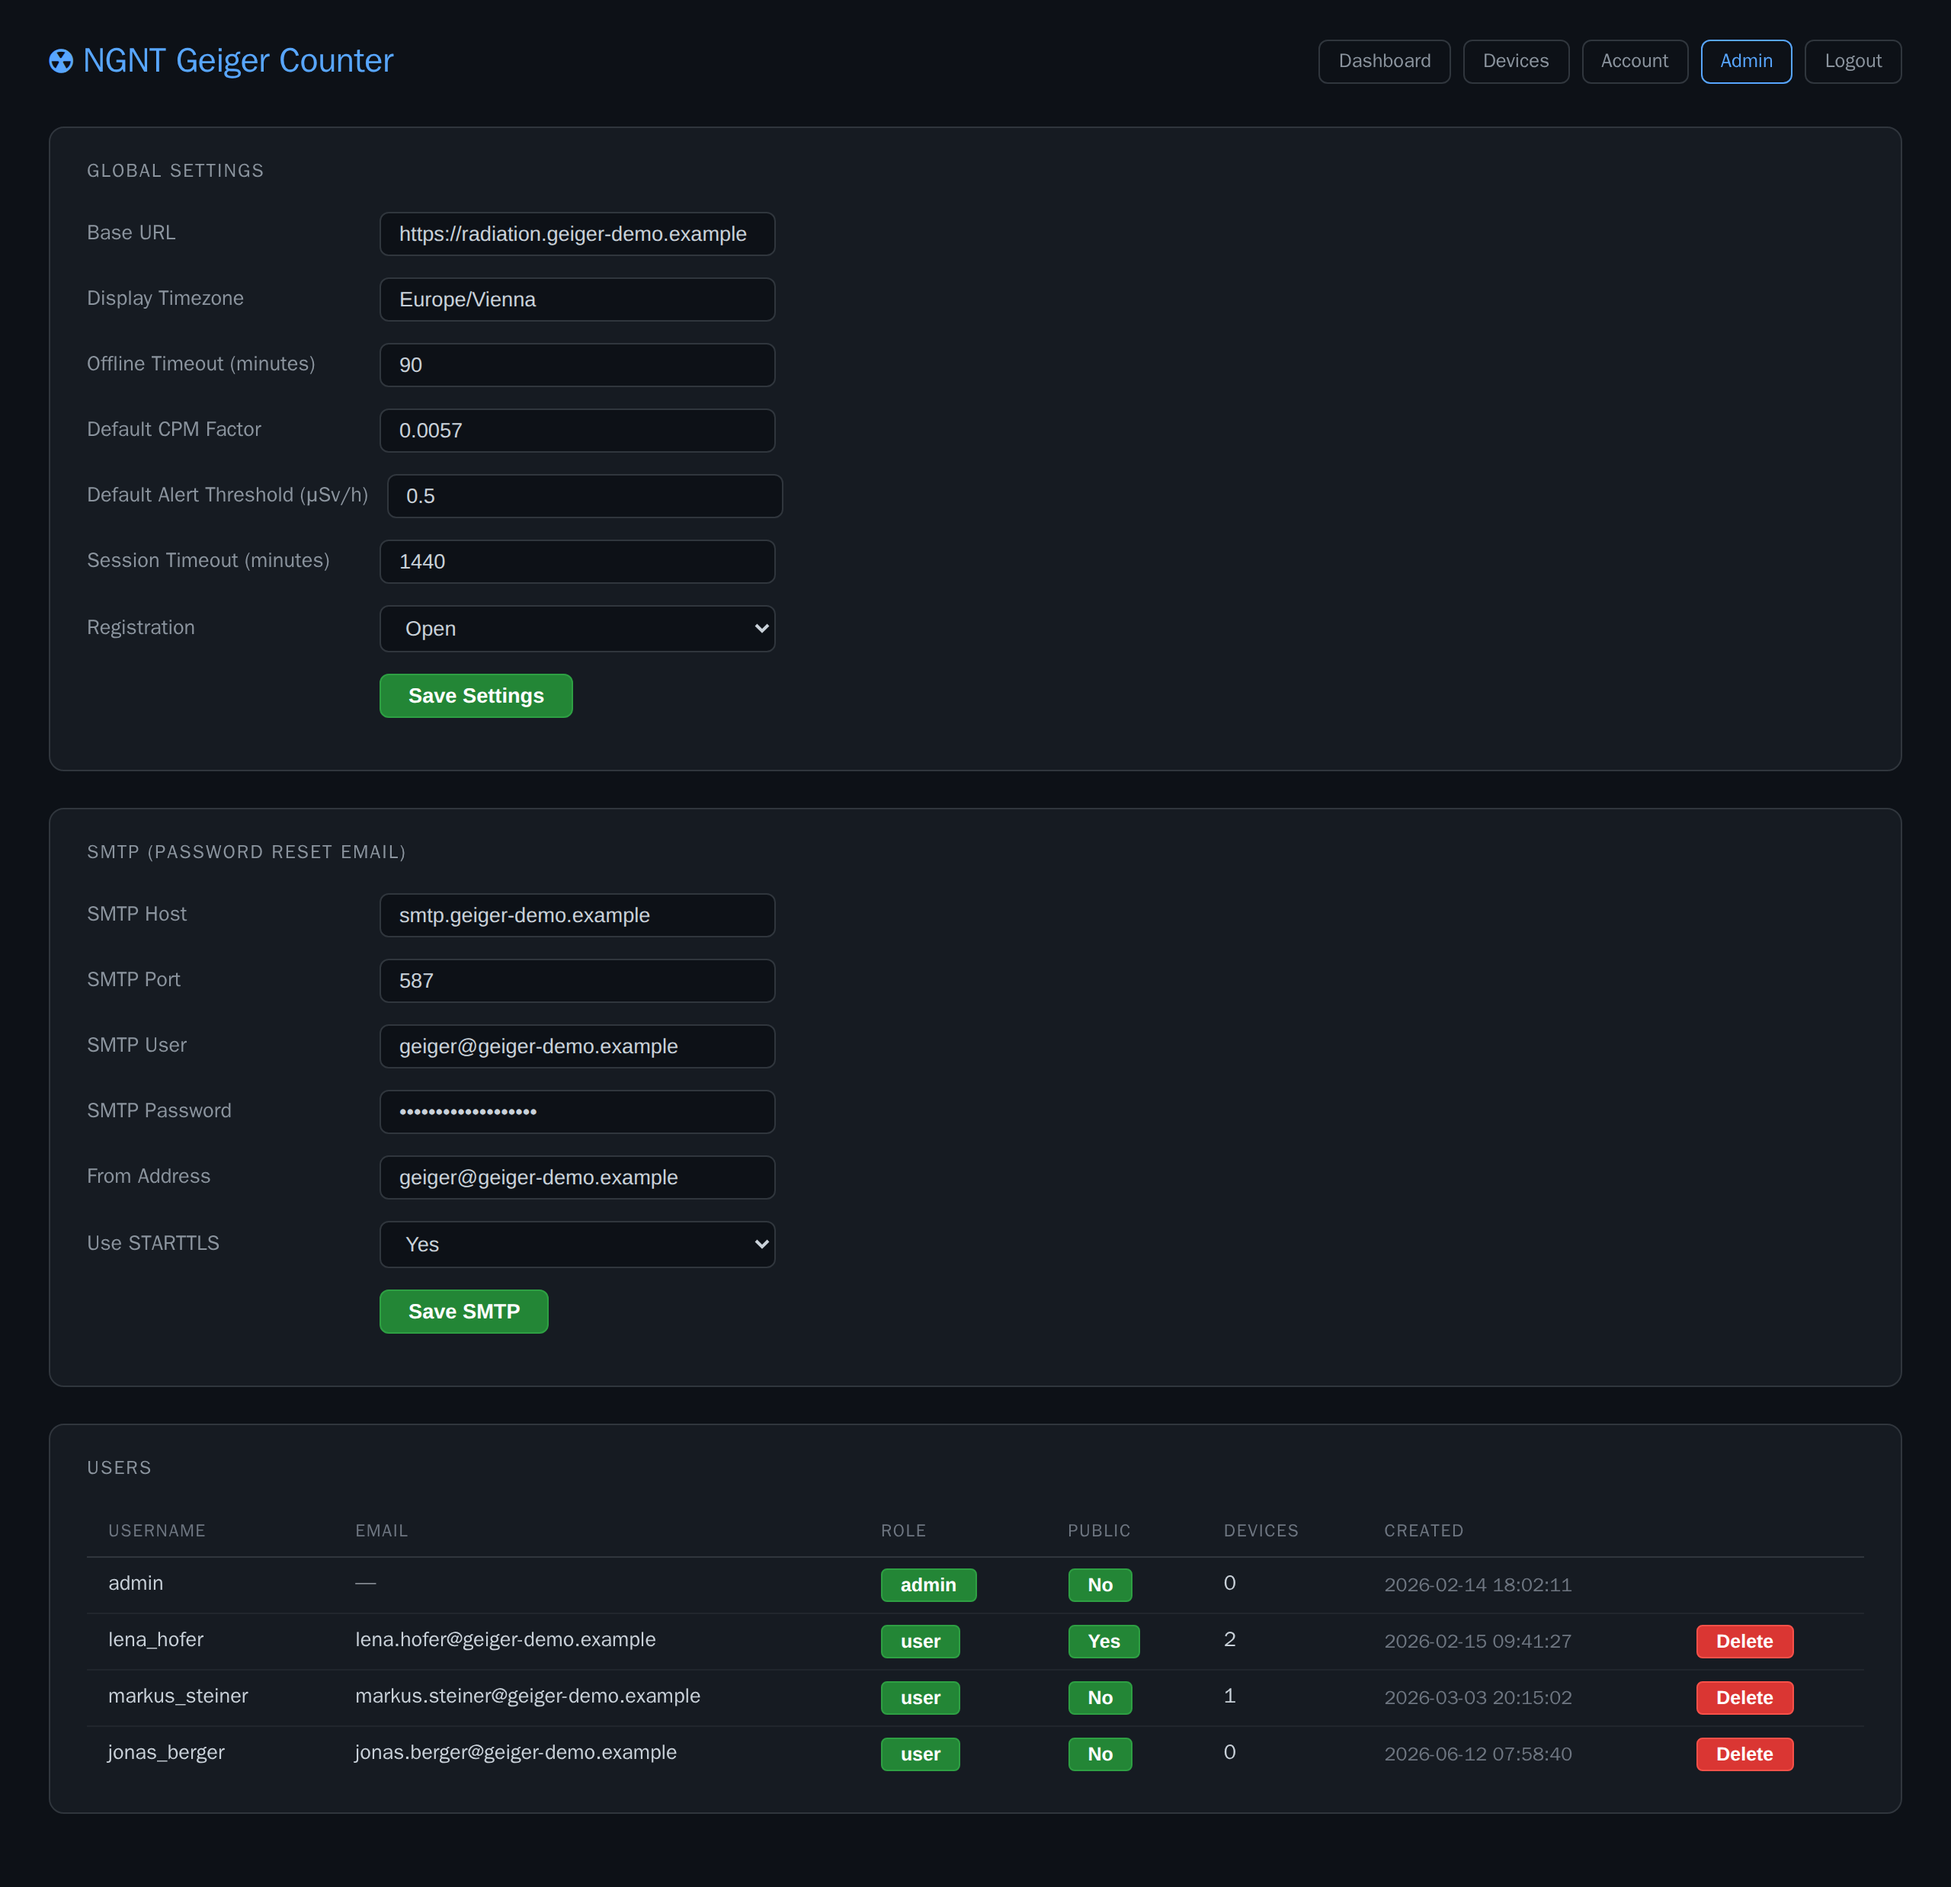
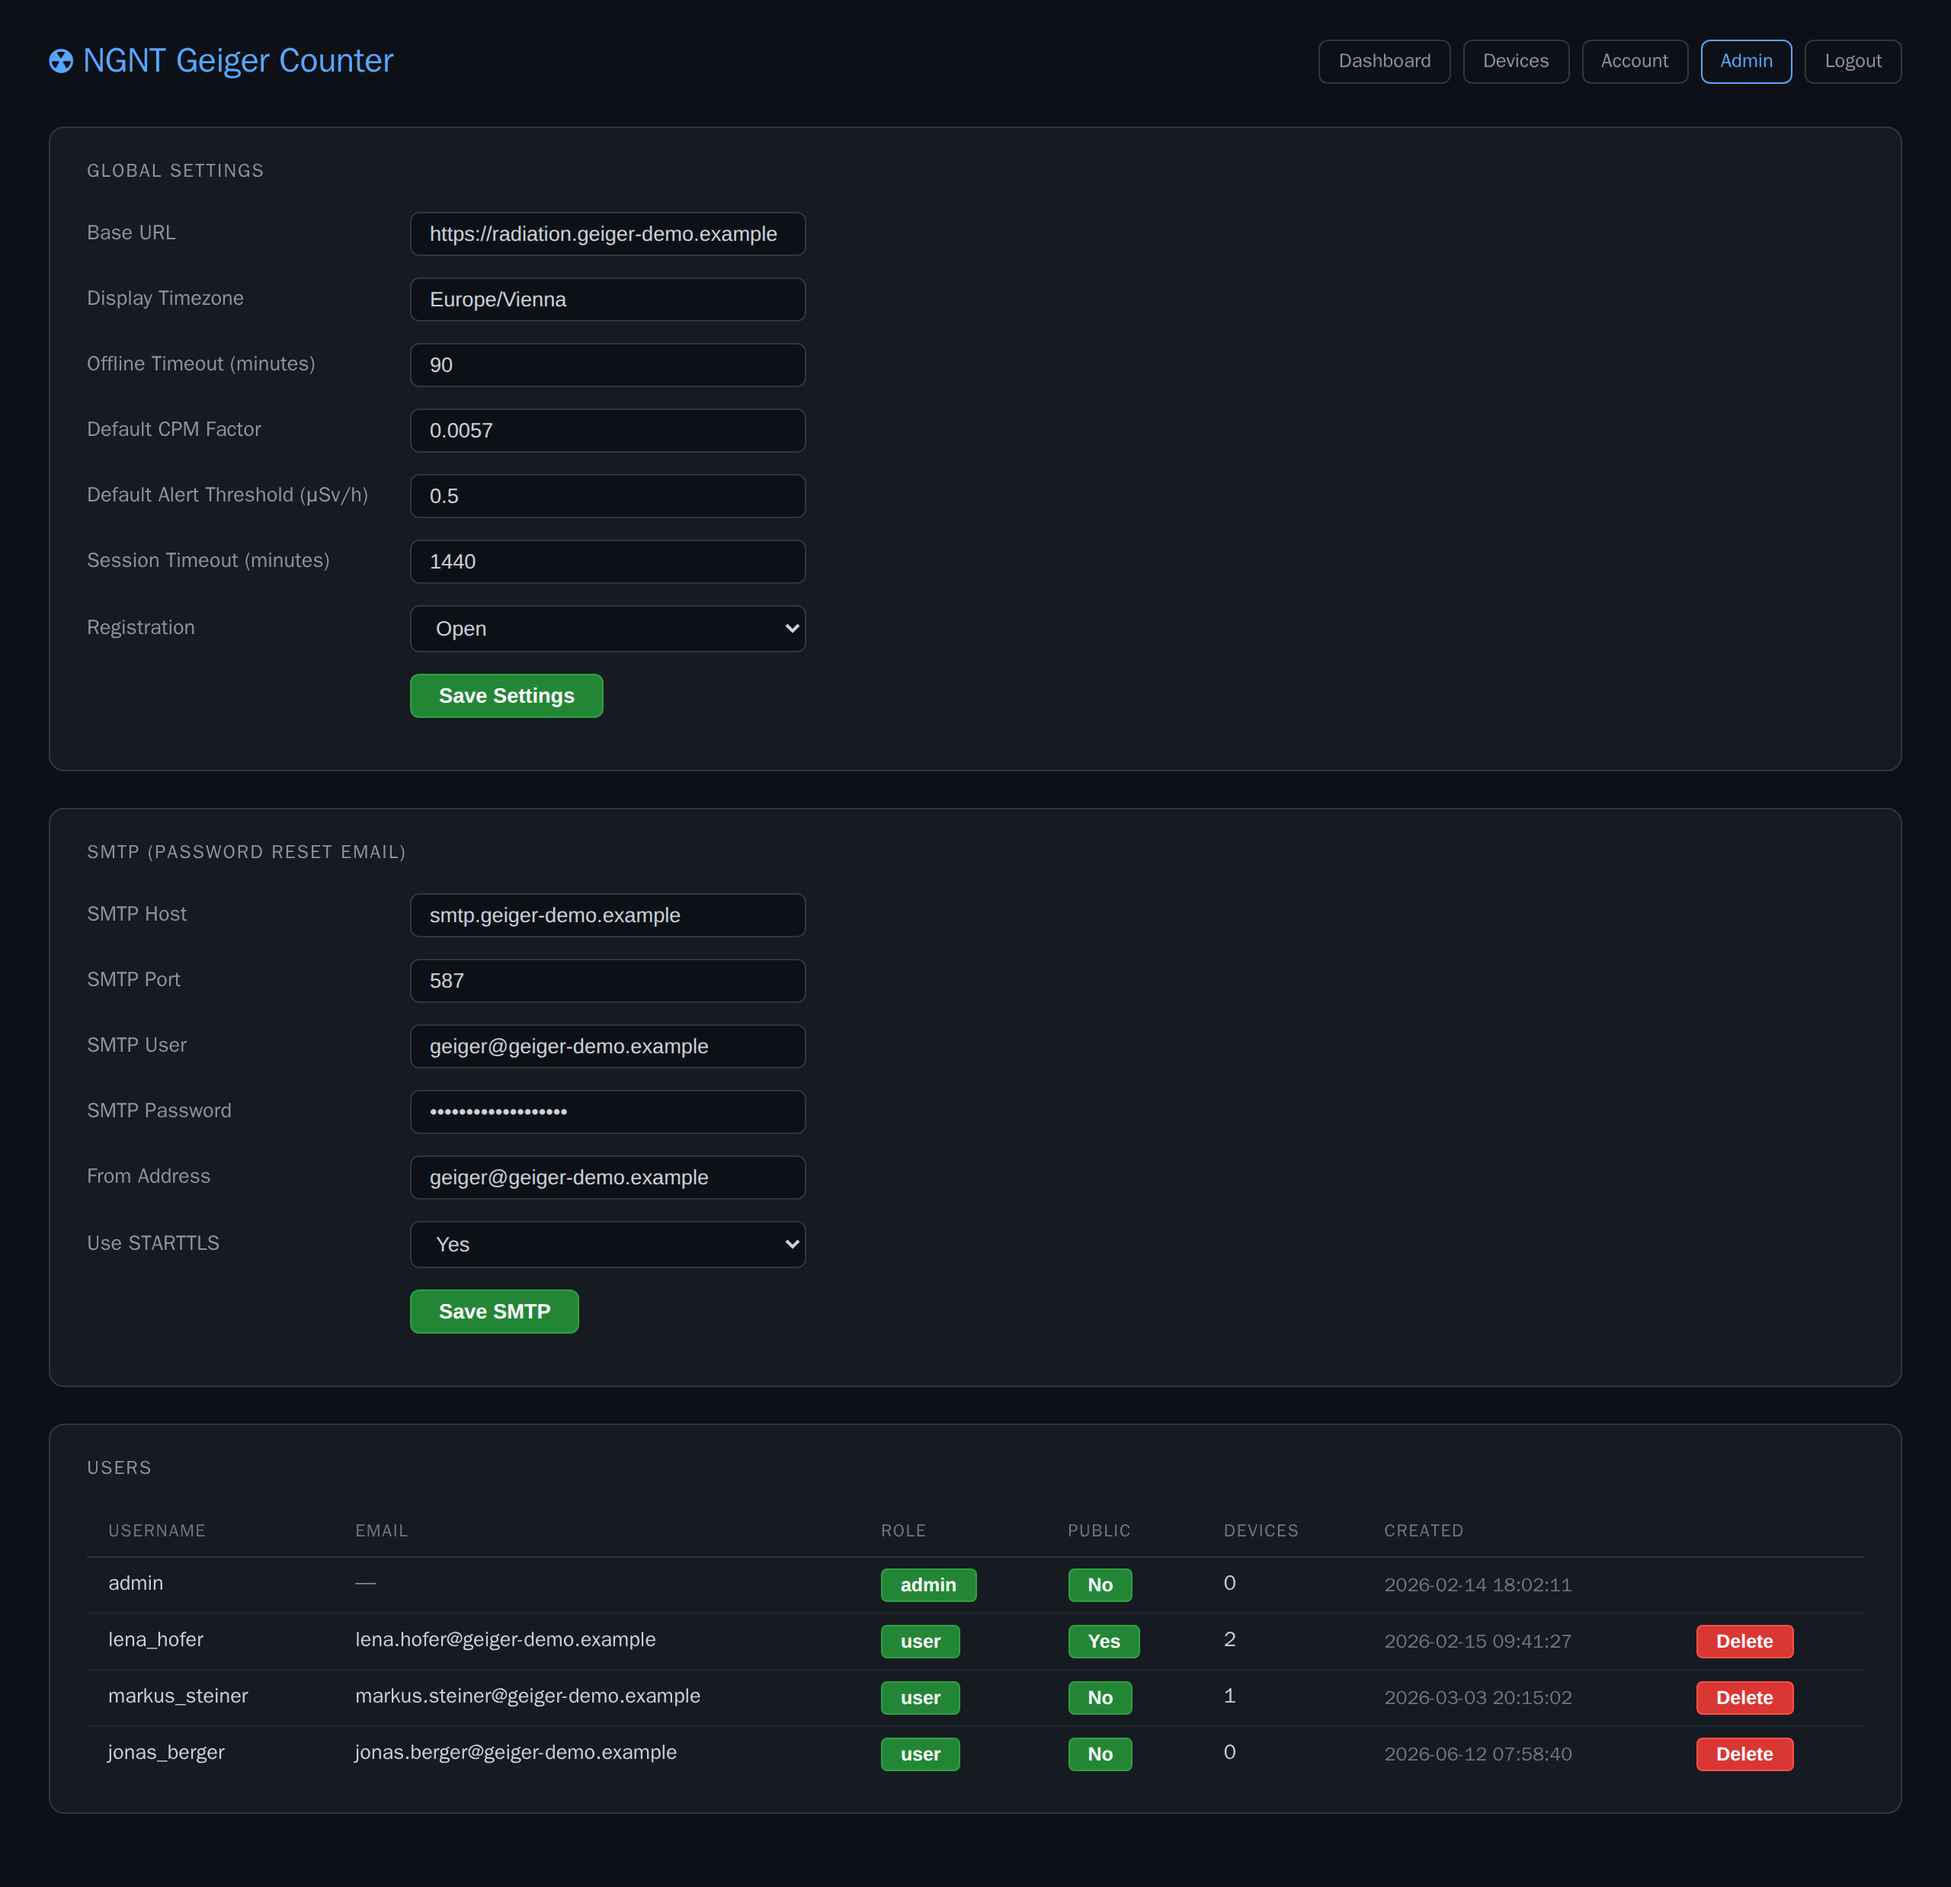
Fit selects to their options and line up form fields
The account page's "Public profile" select had a fixed 260 px width
(inline style, also on the admin selects) and cut its option off at
"Public — anyone can see your devi". Selects now size to their longest
option, at least 260 px; the inline styles are gone (style.css already
had them). Form labels had a 180 px minimum, so "Default Alert
Threshold (μSv/h)" grew wider and pushed its field out of line; labels
are now a fixed 200 px and wrap if longer.

The docs tour checks both on the account and admin pages; account.png,
admin.png and devices.png regenerated.

diff --git a/ngnt-geiger-dockerized/e2e/docs/tour.spec.ts b/ngnt-geiger-dockerized/e2e/docs/tour.spec.ts
@@ -2,7 +2,7 @@ import { readFileSync } from 'node:fs'
 import path from 'node:path'
 import { fileURLToPath } from 'node:url'
 
-import { expect, test, type Browser, type BrowserContext, type Page, type TestInfo } from '@playwright/test'
+import { expect, test, type Browser, type BrowserContext, type Locator, type Page, type TestInfo } from '@playwright/test'
 
 import { BASE, DEVICES, PEOPLE, RESET_TOKEN, type Sessions, type Who } from './seed'
 
@@ -124,6 +124,29 @@ async function shoot(page: Page, name: string, opts: { fullPage?: boolean; clipA
 
 const heading = (page: Page, text: string) => expect(page.getByRole('heading', { name: text })).toBeVisible()
 
+/** Each select is as wide as its longest option, so no option text is cut off. */
+async function selectsFit(selects: Locator): Promise<void> {
+  for (const select of await selects.all()) {
+    const [width, needed] = await select.evaluate((el: HTMLElement) => {
+      const width = el.offsetWidth
+      const prev = el.style.width
+      el.style.width = 'max-content'
+      const needed = el.offsetWidth
+      el.style.width = prev
+      return [width, needed]
+    })
+    expect(width, await select.getAttribute('id') ?? 'select').toBeGreaterThanOrEqual(needed)
+  }
+}
+
+/** Every form field starts at the same x, however long its label. */
+async function fieldsAligned(page: Page): Promise<void> {
+  const lefts = await page
+    .locator('.form-row > :nth-child(2)')
+    .evaluateAll((els) => els.map((el) => el.getBoundingClientRect().left))
+  expect(new Set(lefts).size).toBe(1)
+}
+
 /* --- signed out --------------------------------------------------------- */
 
 test('login', async ({ page }) => {
@@ -203,6 +226,8 @@ test('account', async ({ browser }, info) => {
   const page = await as(browser, info, 'lena')
   await page.goto('/account')
   await expect(page.locator('#pepper')).toHaveValue(PEOPLE.lena.pepper)
+  await selectsFit(page.locator('.form-row select'))
+  await fieldsAligned(page)
   await shoot(page, 'account', { fullPage: true })
 })
 
@@ -212,6 +237,8 @@ test('admin', async ({ browser }, info) => {
   await heading(page, 'Users')
   await expect(page.locator('tbody tr')).toHaveCount(1 + Object.keys(PEOPLE).length)
   await expect(page.locator('#smtp-host')).toHaveValue('smtp.geiger-demo.example')
+  await selectsFit(page.locator('.form-row select'))
+  await fieldsAligned(page)
   await shoot(page, 'admin', { fullPage: true })
 })
 

diff --git a/ngnt-geiger-dockerized/app/templates/admin.html b/ngnt-geiger-dockerized/app/templates/admin.html
@@ -43,7 +43,7 @@
         </div>
         <div class="form-row">
             <label for="s-reg">Registration</label>
-            <select id="s-reg" name="registration_enabled" style="width:260px;background:#0d1117;border:1px solid #30363d;border-radius:6px;color:#c9d1d9;padding:6px 12px;font-size:0.85rem;">
+            <select id="s-reg" name="registration_enabled">
                 <option value="1"{% if settings.get('registration_enabled', '1') == '1' %} selected{% endif %}>Open</option>
                 <option value="0"{% if settings.get('registration_enabled', '1') == '0' %} selected{% endif %}>Disabled</option>
             </select>
@@ -88,7 +88,7 @@
         </div>
         <div class="form-row">
             <label for="smtp-tls">Use STARTTLS</label>
-            <select id="smtp-tls" name="smtp_tls" style="width:260px;background:#0d1117;border:1px solid #30363d;border-radius:6px;color:#c9d1d9;padding:6px 12px;font-size:0.85rem;">
+            <select id="smtp-tls" name="smtp_tls">
                 <option value="1"{% if settings.get('smtp_tls', '1') == '1' %} selected{% endif %}>Yes</option>
                 <option value="0"{% if settings.get('smtp_tls', '1') == '0' %} selected{% endif %}>No</option>
             </select>

diff --git a/ngnt-geiger-dockerized/app/static/style.css b/ngnt-geiger-dockerized/app/static/style.css
@@ -196,7 +196,8 @@ tr:hover td { background: #1c2129; }
 .form-row label {
     font-size: 0.85rem;
     color: #8b949e;
-    min-width: 180px;
+    /* Fixed, so a long label wraps instead of pushing its field out of line. */
+    width: 200px;
     flex-shrink: 0;
 }
 .form-row input[type="text"],
@@ -212,6 +213,8 @@ tr:hover td { background: #1c2129; }
     font-size: 0.85rem;
     width: 260px;
 }
+/* As wide as the longest option, so none is cut off. */
+.form-row select { width: auto; min-width: 260px; }
 .form-row input:focus, .form-row select:focus {
     outline: none;
     border-color: #58a6ff;
@@ -275,7 +278,7 @@ td input:focus {
     align-items: stretch;
     gap: 6px;
 }
-.auth-form .form-row label { min-width: auto; }
+.auth-form .form-row label { width: auto; }
 .auth-form .form-row input { width: 100%; }
 .auth-form .btn { width: 100%; margin-top: 8px; }
 .auth-form p {

diff --git a/ngnt-geiger-dockerized/app/templates/account.html b/ngnt-geiger-dockerized/app/templates/account.html
@@ -24,7 +24,7 @@
         </div>
         <div class="form-row">
             <label for="public">Public profile</label>
-            <select id="public" name="public" style="width:260px;background:#0d1117;border:1px solid #30363d;border-radius:6px;color:#c9d1d9;padding:6px 12px;font-size:0.85rem;">
+            <select id="public" name="public">
                 <option value="0"{% if not user['public'] %} selected{% endif %}>Private &mdash; only you see your devices</option>
                 <option value="1"{% if user['public'] %} selected{% endif %}>Public &mdash; anyone can see your devices</option>
             </select>
